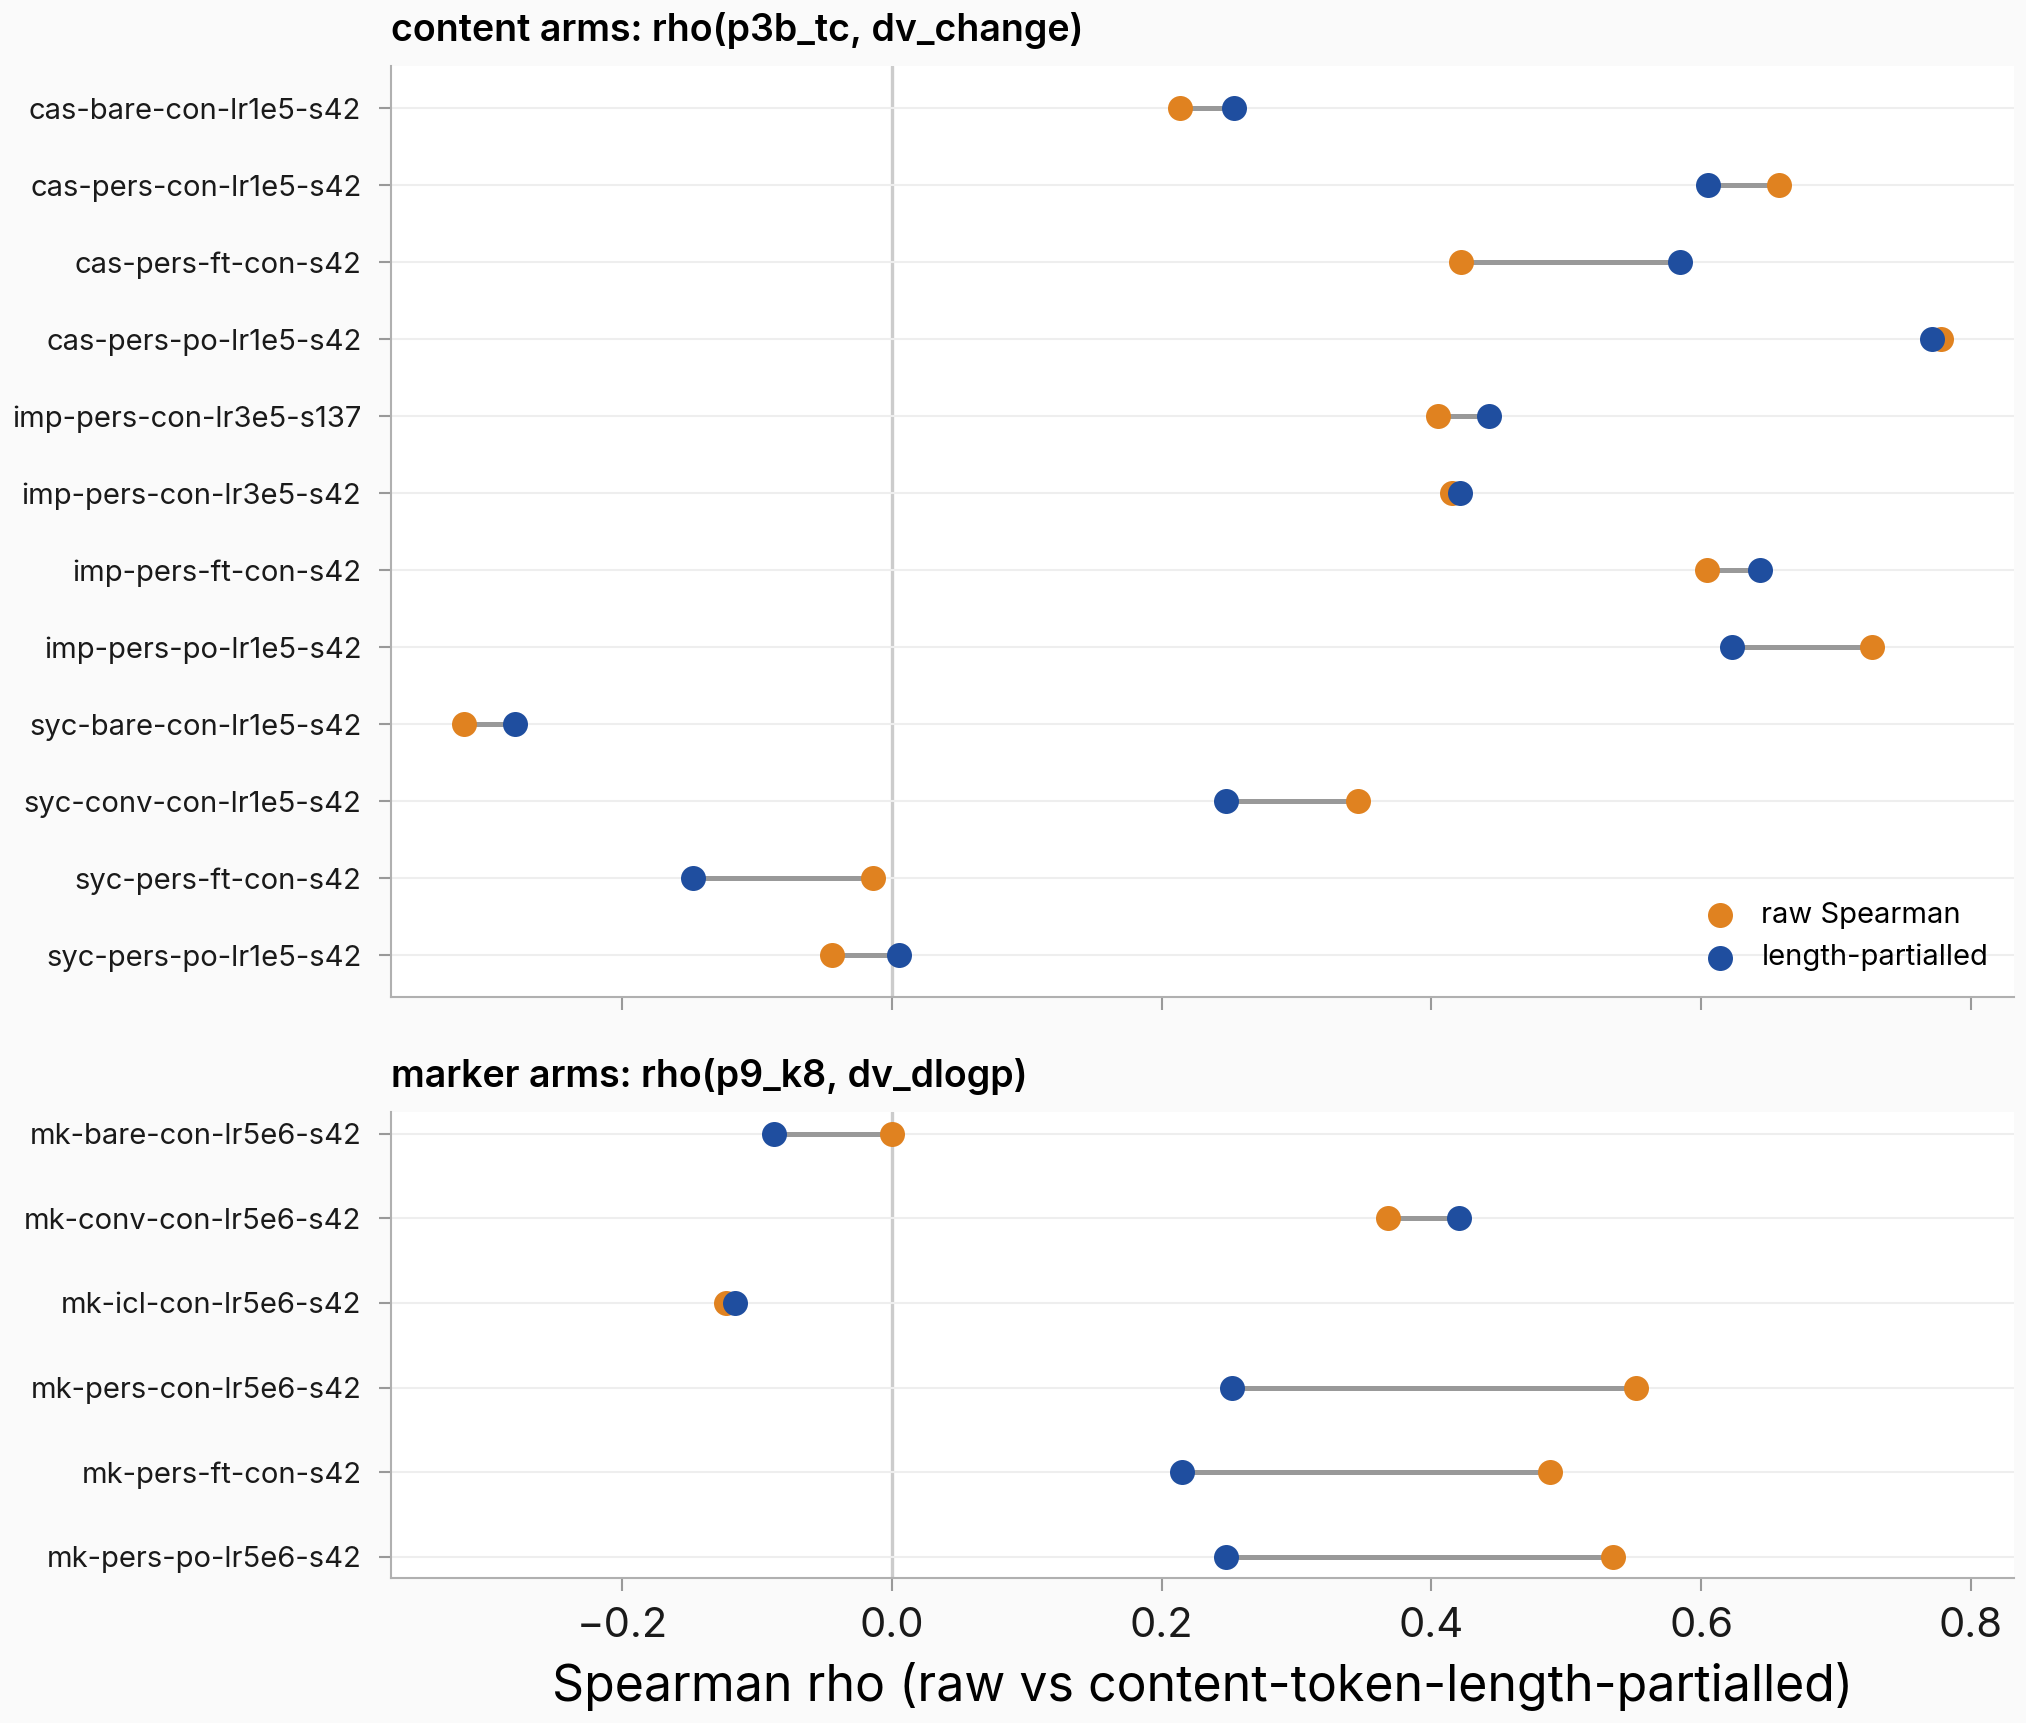
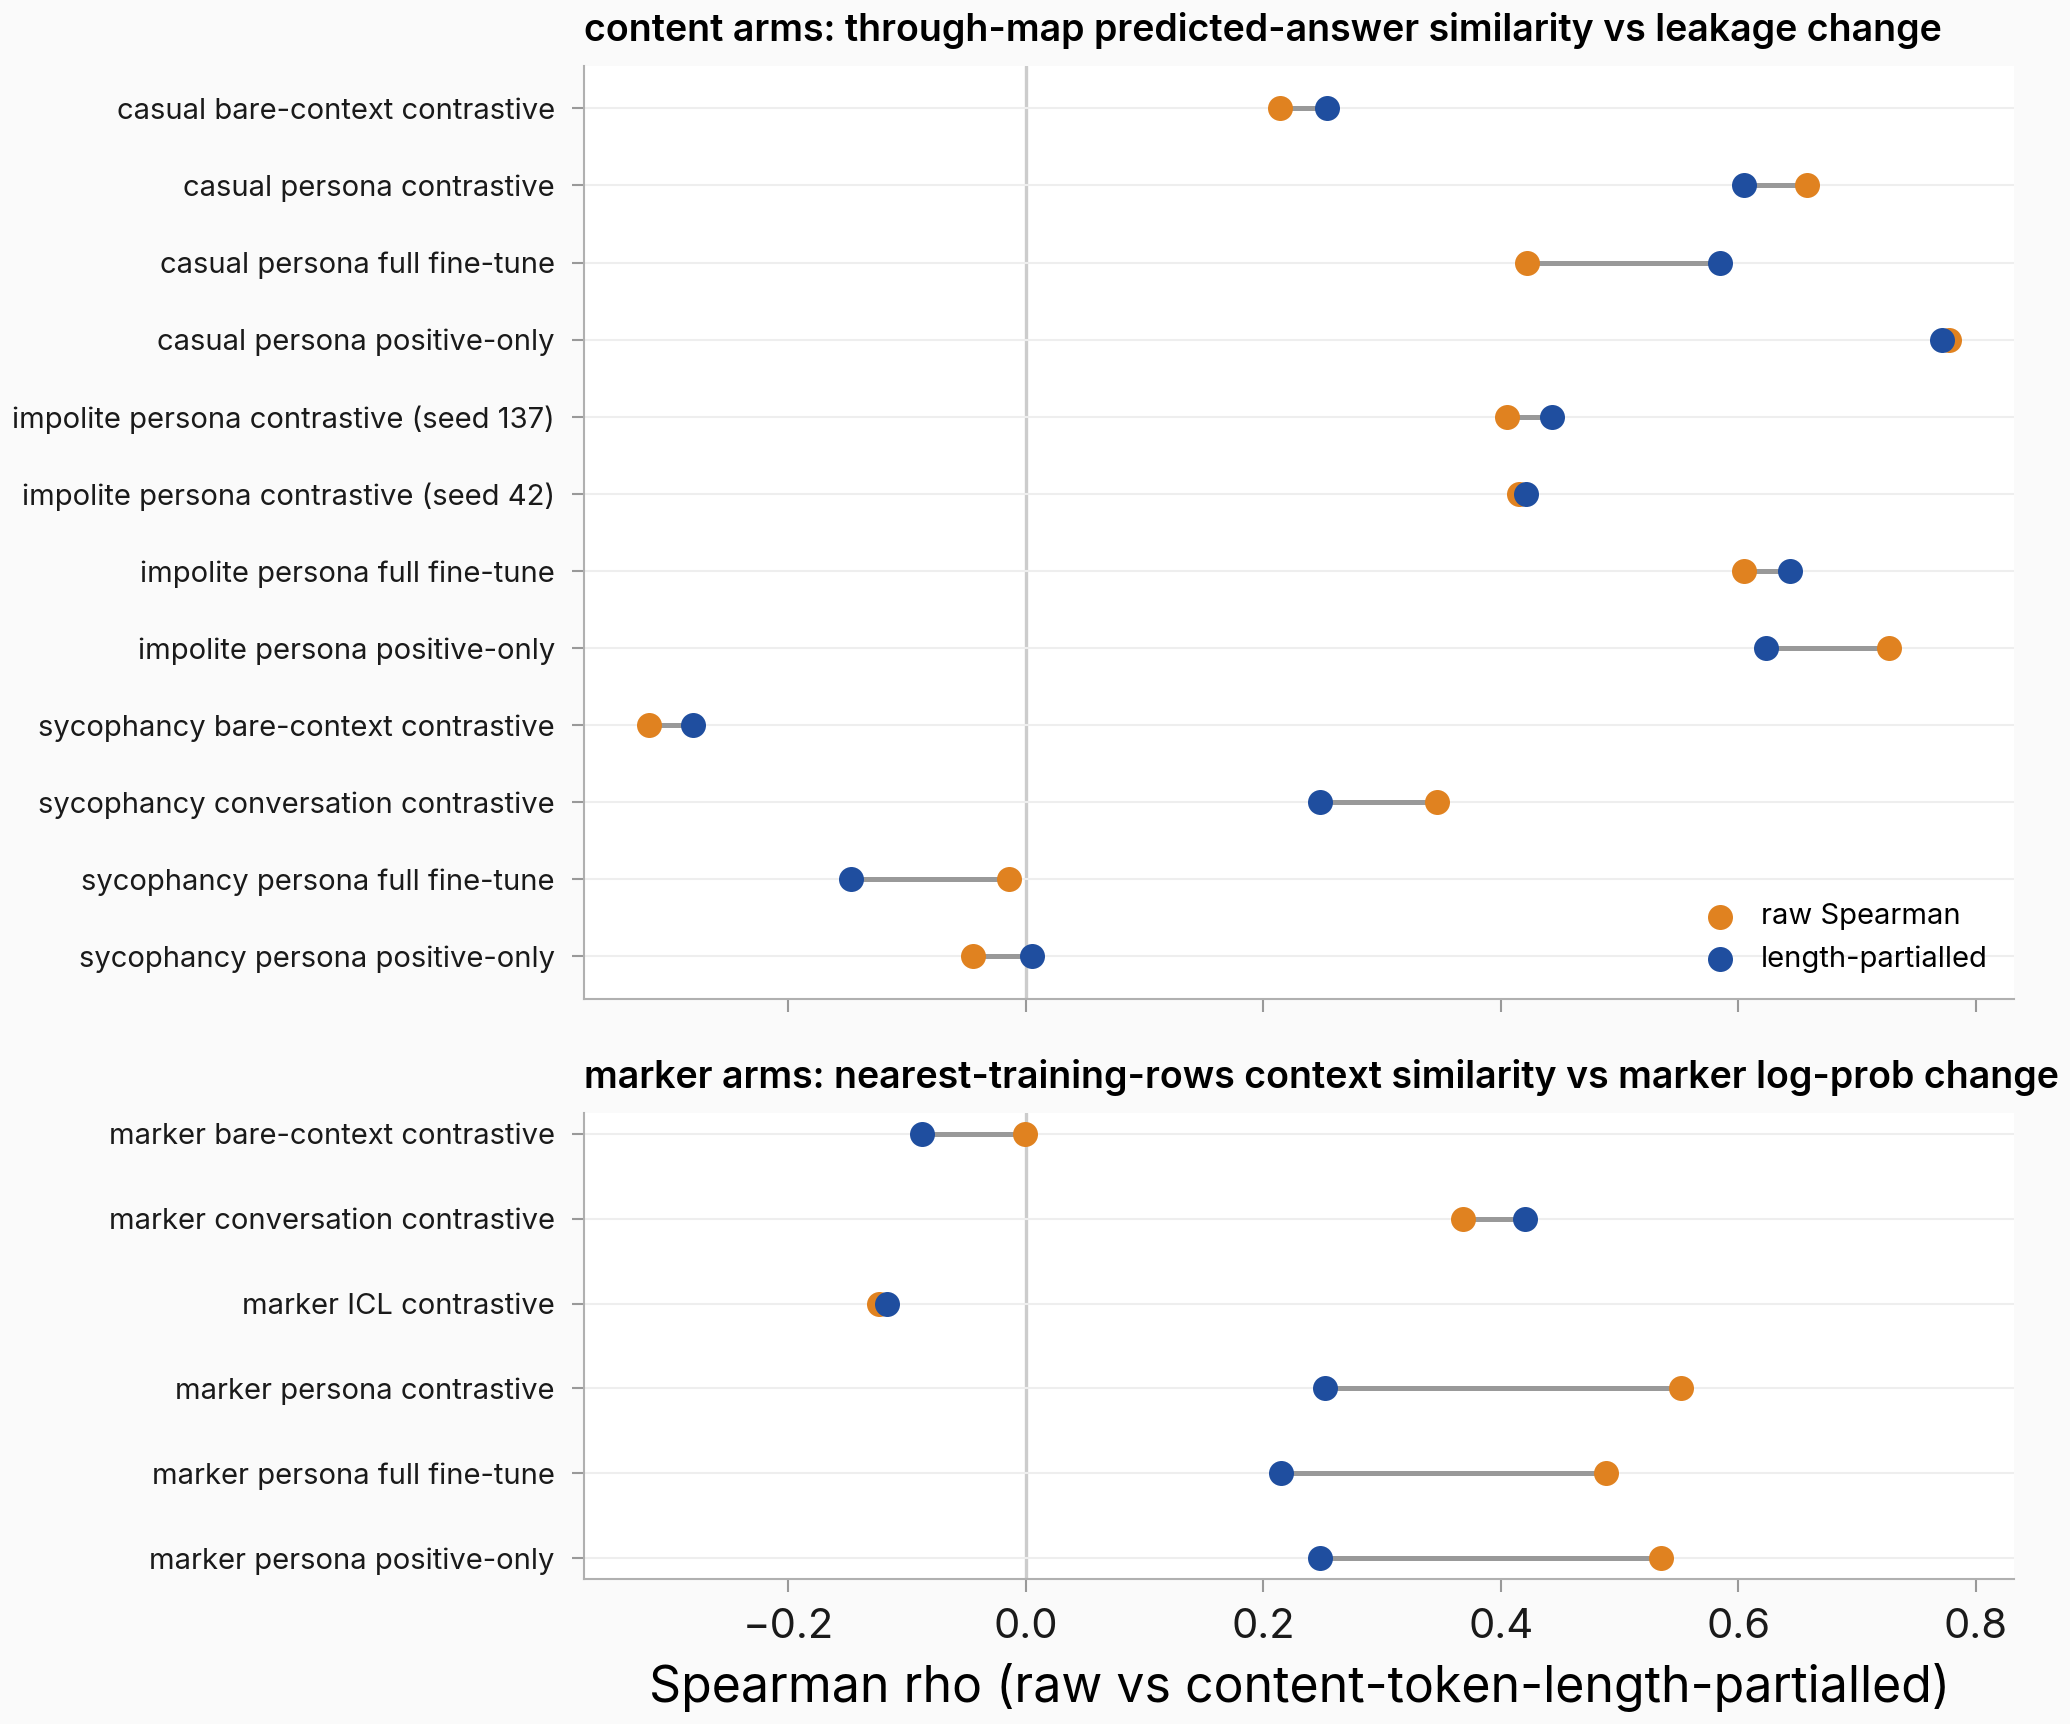
issue-1979: clean-result r2 — length-partial dumbbell relabeled plain-English (arm names + predictor panel titles per critic Lens 3)

diff --git a/scripts/issue1979_length_partial_followup.py b/scripts/issue1979_length_partial_followup.py
@@ -153,6 +153,7 @@ def _summaries(reads: list[dict]) -> dict:
 def _figure(reads: list[dict]) -> None:
     import matplotlib.pyplot as plt
 
+    import issue1979_figs as F  # plain-English rendered-text labels (paper-plots §3.5)
     from explore_persona_space.analysis.paper_plots import (
         paper_palette_role,
         savefig_paper,
@@ -163,8 +164,11 @@ def _figure(reads: list[dict]) -> None:
     c_raw = paper_palette_role("baseline")
     c_par = paper_palette_role("primary")
     groups = [
-        ("content", "content arms: rho(p3b_tc, dv_change)"),
-        ("marker", "marker arms: rho(p9_k8, dv_dlogp)"),
+        ("content", "content arms: through-map predicted-answer similarity vs leakage change"),
+        (
+            "marker",
+            "marker arms: nearest-training-rows context similarity vs marker log-prob change",
+        ),
     ]
     n_rows = [sum(1 for r in reads if r["kind"] == k) for k, _ in groups]
     fig, axes = plt.subplots(
@@ -184,7 +188,7 @@ def _figure(reads: list[dict]) -> None:
             label="length-partialled",
         )
         ax.set_yticks(ys)
-        ax.set_yticklabels([r["arm_id"] for r in grp], fontsize=7)
+        ax.set_yticklabels([F._arm_label(r["arm_id"]) for r in grp], fontsize=7)
         ax.axvline(0.0, color="0.8", lw=0.8, zorder=0)
         ax.set_title(title, fontsize=9)
     axes[0].legend(loc="lower right", fontsize=7)
